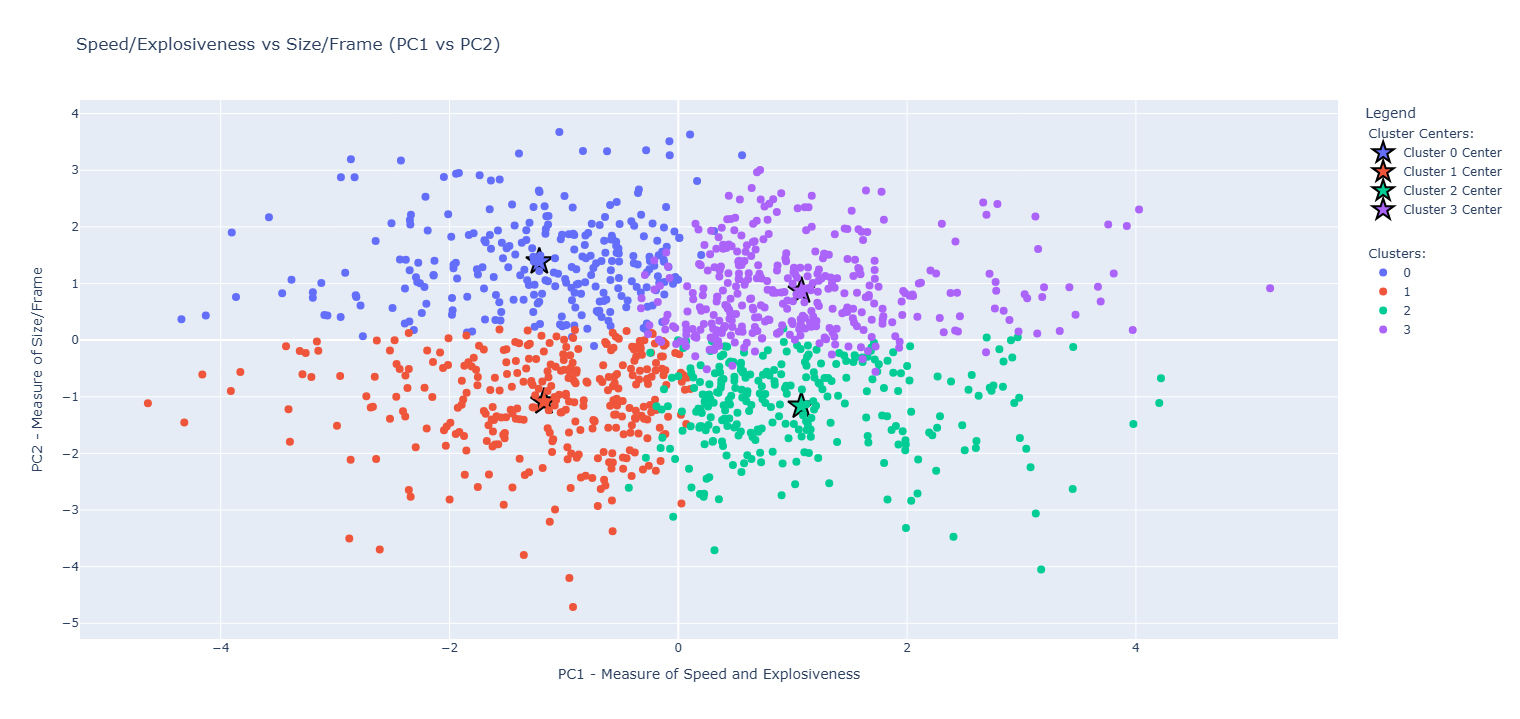
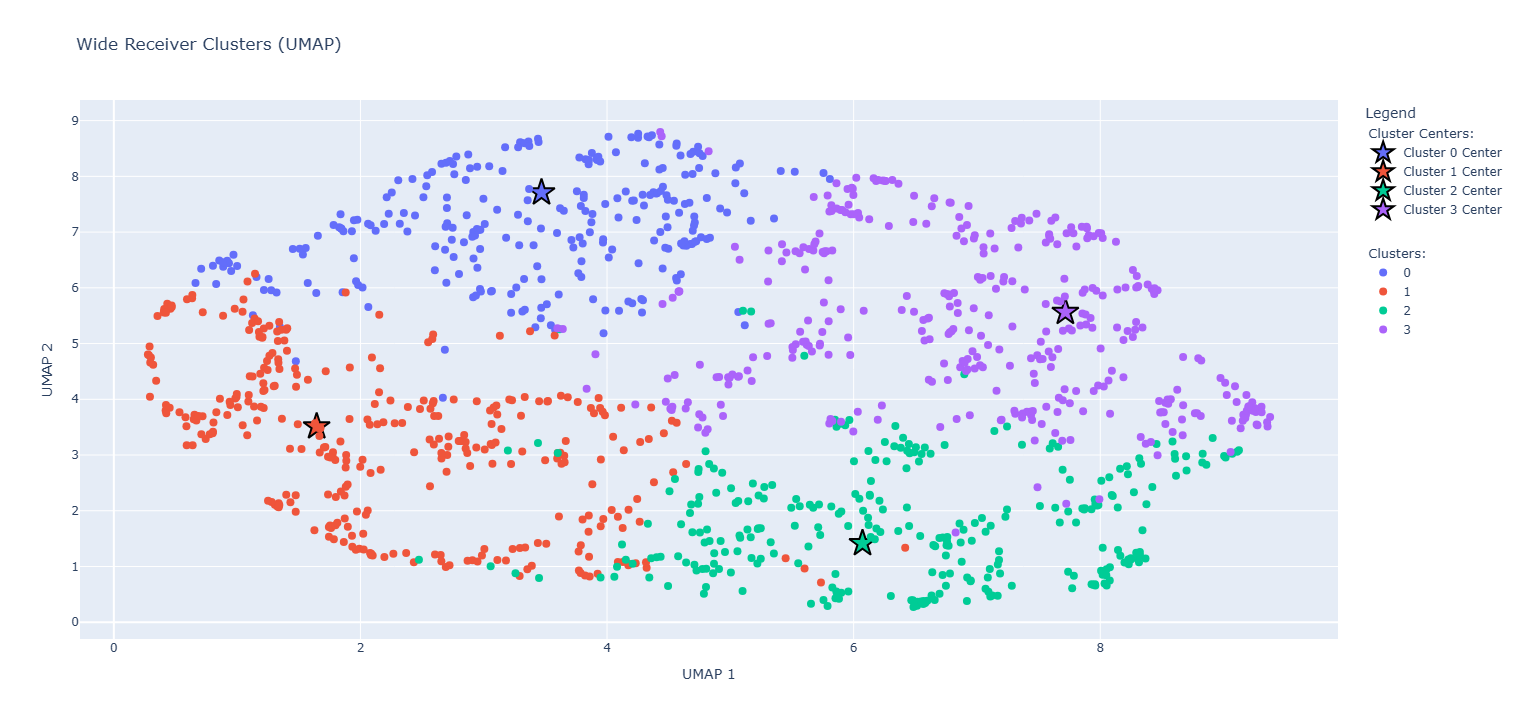
fix names on png files and show pngs on readme and link to the html file on github pages

diff --git a/README.md b/README.md
@@ -19,5 +19,13 @@ The script writes results into the data directory, including:
 - PCA rotation and explained variance files
 - Interactive HTML plots for the cluster visualizations
 
+**Click on the image below to see how all the wide receivers are categorized into clusters based off all 4 PC variables, and then reduced to 2D using UMAP.**
+
+[![Click to view UMAP plot.](resources/umap_ss.png)](https://etnguyen401.github.io/nfl-wr-clustering/data/wr_clusters_interactive_default.html)
+
+**Click on the image below to view the PC1 vs PC2 plot, which maps each wide receiver by PC1 (speed/explosiveness) and PC2(size/frame), and organizes them into clusters.**
+
+[![Click to view UMAP plot.](resources/pc1_vs_pc2.png)](https://etnguyen401.github.io/nfl-wr-clustering/data/wr_clusters_pc1_vs_pc2.html)
+
 ## Notes
 The pipeline is implemented in the main module under the nfl-wr-k-means-clustering package.
